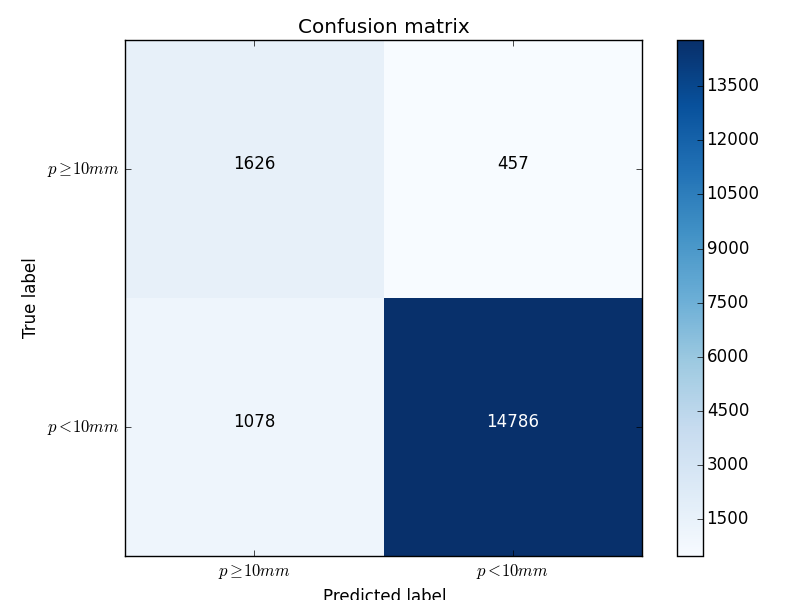
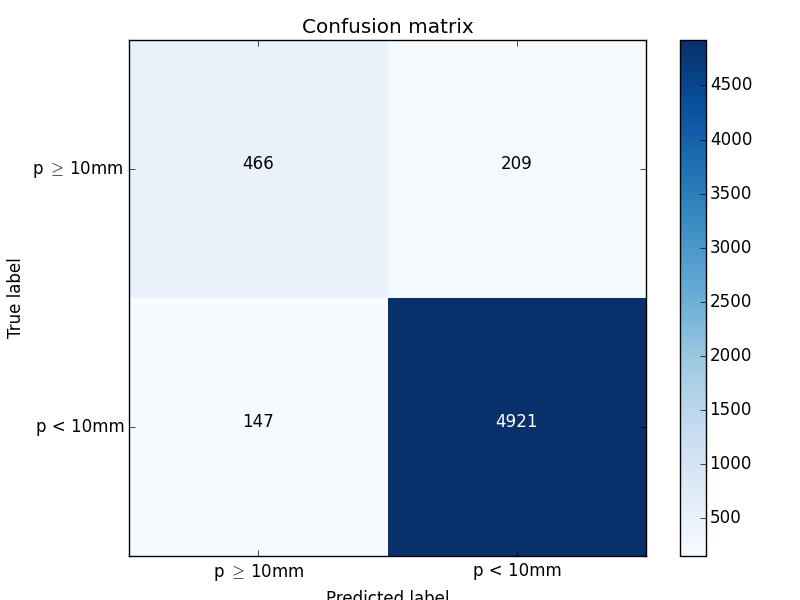
debugged evaluation routine

diff --git a/training/eval_models.py b/training/eval_models.py
@@ -132,7 +132,7 @@ def main(region):
 
     # Data loading & preprocessing
     datdir = '/home/silviar/Dokumente/Test_set/'
-    test_files = sorted(glob.glob(datdir + 'training_data_*'))
+    test_files = sorted(glob.glob(datdir + 'training_data_*_' + str(region) + '.npy'))
 
     X,Y = construct_np_arrays(datdir,test_files,np.empty((0,28,28,21),int))
 
@@ -154,7 +154,7 @@ def main(region):
                                         Y[:,0], y_score[:,0])
 
     # get benchmark
-    benchmark_files = sorted(glob.glob(datdir + 'benchmark_prob_*'))
+    benchmark_files = sorted(glob.glob(datdir + 'benchmark_prob_*_' + str(region) + '.npy'))
     pred_bench,Y_bench = construct_np_arrays(datdir,benchmark_files,np.empty((0,2),int))
     predicted_label_bench = [round(item) for item in pred_bench[:,0]]
     valid_label_bench = [item for item in Y_bench[:,0]]
@@ -176,27 +176,27 @@ def main(region):
     plt.ylim([0.0,1.0])
     plt.xlabel('False Positive Rate')
     plt.ylabel('True Positive Rate')
-    plt.title('ROC curve $P(p \geq 10mm)$, region ' + str(region))
+    plt.title('ROC curve P(p $\geq$ 10mm), region ' + str(region))
     plt.legend(loc='lower right')
     plt.savefig(outdir + 'roc_' + str(region) + '.png')
 
     # plot confusion matrices
     cm = confusion_matrix(valid_label,predicted_label,labels=[1,0])
     plt.figure()
-    plot_confusion_matrix(cm,['$p \geq 10mm$','$p < 10mm$'],normalize=True,title='Normalized confusion matrix')
+    plot_confusion_matrix(cm,['p $\geq$ 10mm','p < 10mm'],normalize=True,title='Normalized confusion matrix')
     plt.savefig(outdir + 'confusion_matrix_norm_' + str(region) + '.png')
 
     plt.figure()
-    plot_confusion_matrix(cm,['$p \geq 10mm$','$p < 10mm$'])
+    plot_confusion_matrix(cm,['p $\geq$ 10mm','p < 10mm'])
     plt.savefig(outdir + 'confusion_matrix_' + str(region) + '.png')
 
     cm = confusion_matrix(valid_label_bench,predicted_label_bench,labels=[1,0])
     plt.figure()
-    plot_confusion_matrix(cm,['$p \geq 10mm$','$p < 10mm$'],normalize=True,title='Normalized confusion matrix')
+    plot_confusion_matrix(cm,['p $\geq$ 10mm','p < 10mm'],normalize=True,title='Normalized confusion matrix')
     plt.savefig(outdir + 'benchmark_confusion_matrix_norm_' + str(region) + '.png')
 
     plt.figure()
-    plot_confusion_matrix(cm,['$p \geq 10mm$','$p < 10mm$'])
+    plot_confusion_matrix(cm,['p $\geq$ 10mm','p < 10mm'])
     plt.savefig(outdir + 'benchmark_confusion_matrix_' + str(region) + '.png')
 
 
